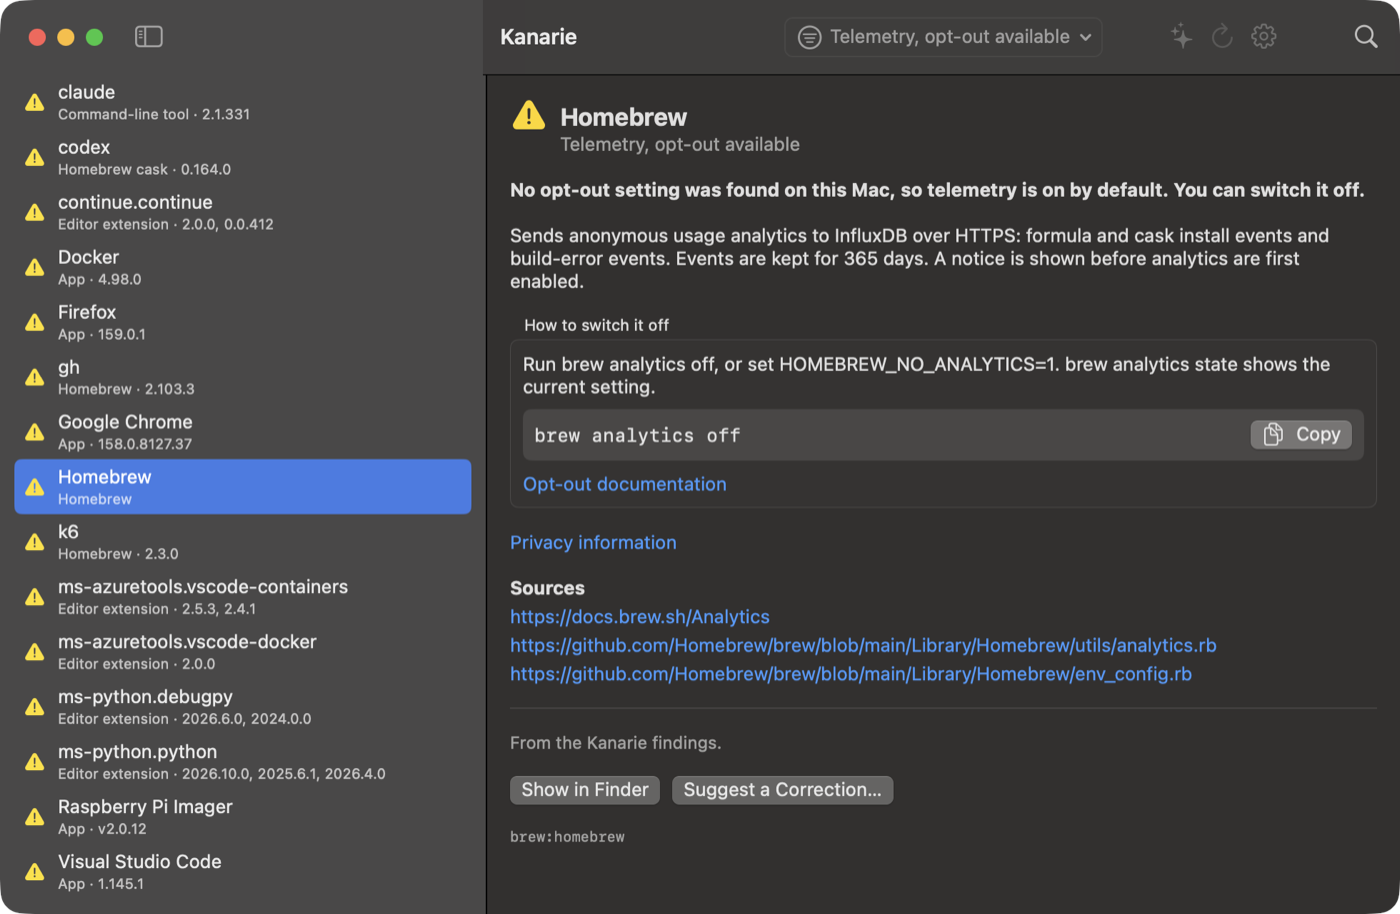
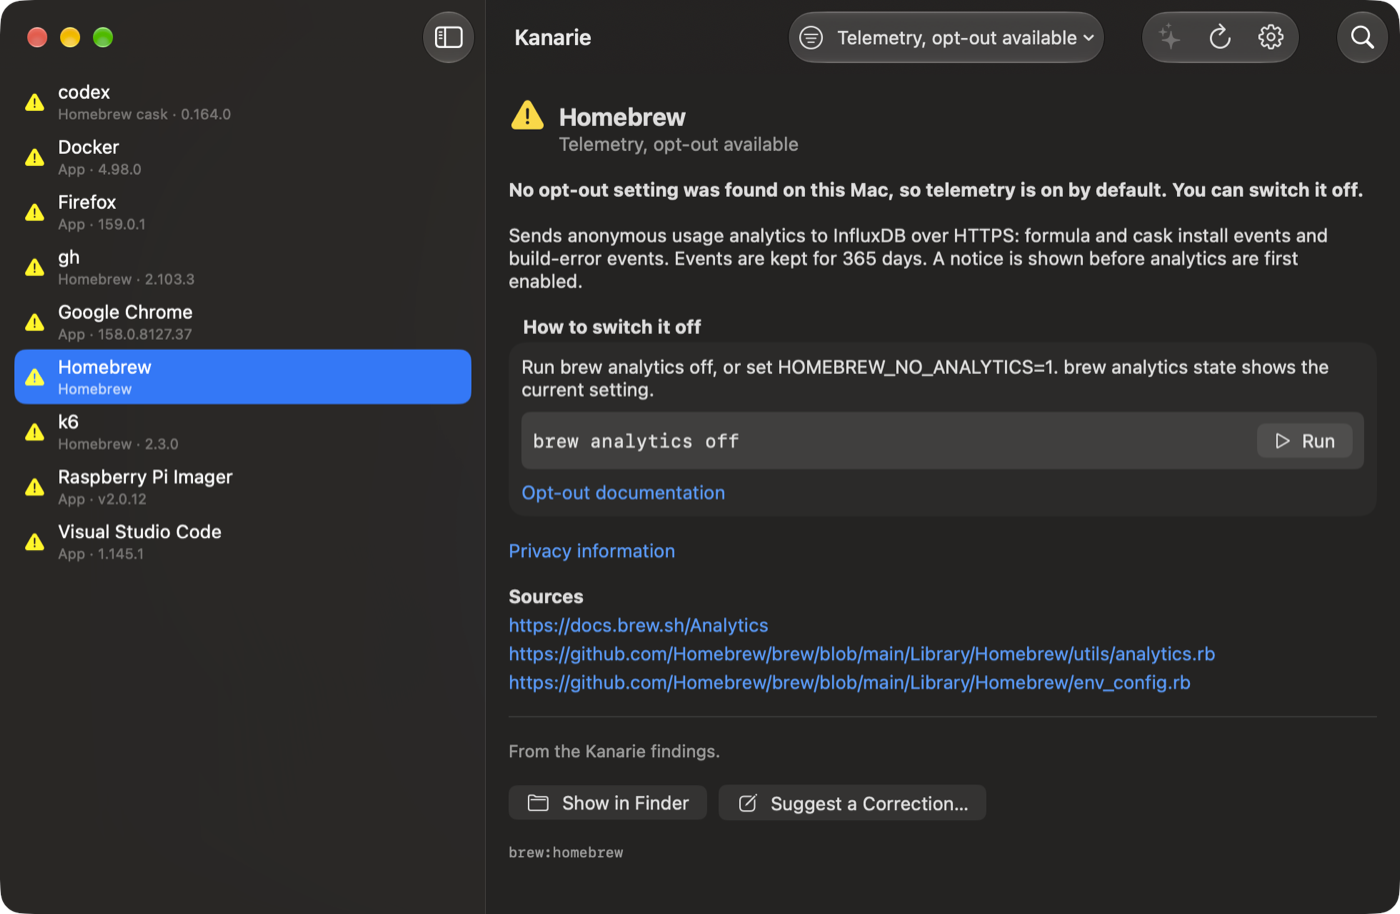
Retake the list screenshot with the Run button
The old screenshot showed Copy for `brew analytics off`, which the app
now offers as Run. Same view as before: Homebrew selected, filtered to
the items that can be switched off, the window at its default size,
scaled to 1400 px.

diff --git a/docs/handoff-v0.1.0.md b/docs/handoff-v0.1.0.md
@@ -173,4 +173,5 @@ A finding sent from the app arrives as an issue. `scripts/accept-finding.py <iss
   - Evidence: builds, 59 tests pass. Not seen in the app: the menu bar window cannot be opened through accessibility on this macOS (the status item is not reachable from the app), and a notification needs a new or updated item after the first scan.
 - **Homepage.** `site/index.html` is a single self-contained page: Arie's one-bird protest against background hum on a sunlit brick wall, with the four verdicts as his demand posters (each with the animated Arie in that mood), the opt-out flow, trust notes and the install commands with copy buttons. No third-party requests, system fonts only, light and dark, reduced motion gives static poses, and a "Hold still, Arie" button pauses the loops. `.github/workflows/pages.yml` deploys it on pushes to main that touch the page or its images, copying `Resources/logo.png` and `docs/screenshots/*.png` next to it. `PRODUCT.md` records the brand brief (register, personality, anti-references, principles). The README links the homepage and its Privacy section now says four cases.
   - Evidence: checked in Chrome at 360 and 1440 px, light and dark, reduced motion, keyboard focus, AA contrast, no outside requests. Not checked: Safari, the clipboard over HTTPS, a screen reader.
-  - The repository's Pages source is already GitHub Actions, with a `github-pages` environment limited to main. The list screenshot predates Run and Add: it shows Copy for `brew analytics off`, which the app now offers as Run.
+  - The repository's Pages source is already GitHub Actions, with a `github-pages` environment limited to main.
+- **List screenshot retaken.** `docs/screenshots/list.png` (README and homepage) now shows the current app: Homebrew selected, with Run for `brew analytics off` instead of the Copy of before. Taken from a test copy with its own empty home folder, filtered to the items that can be switched off, the window alone at its default size, scaled to 1400 px like before.
